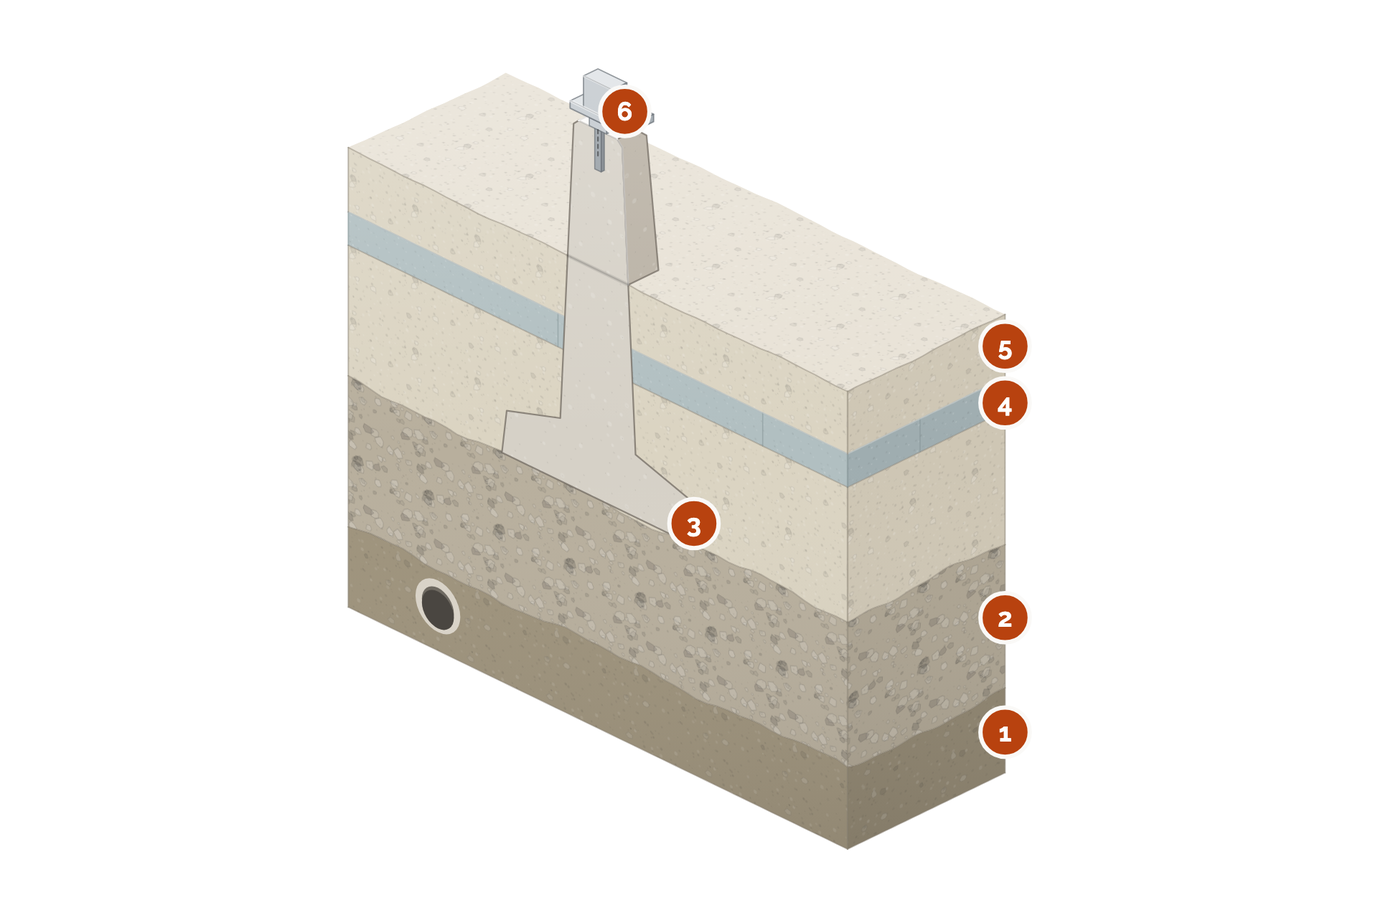
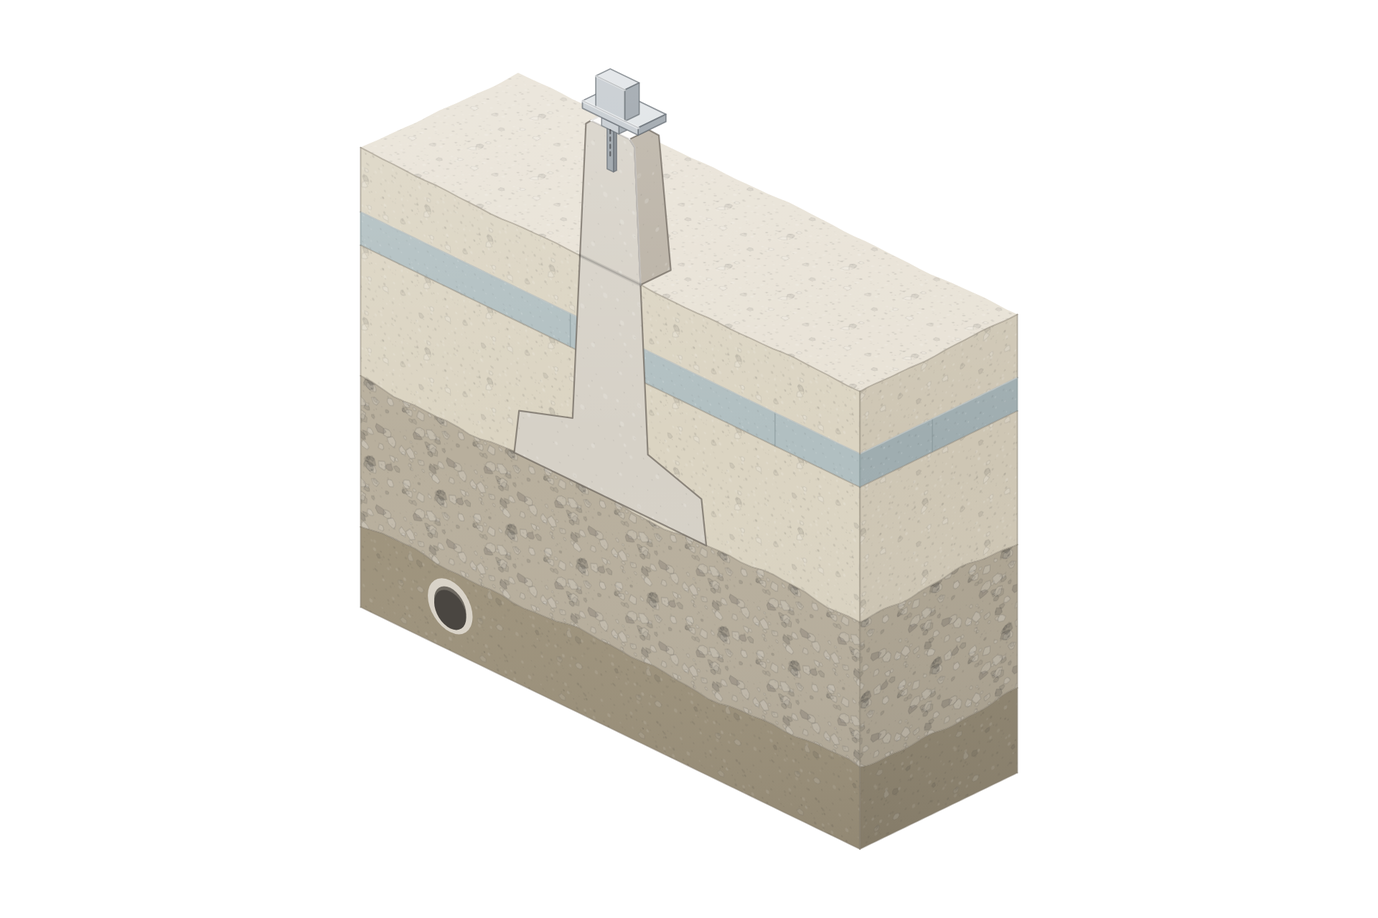
Proto päivitetty: cta-mitoita-perustus

diff --git a/haarat/cta-mitoita-perustus/wireframes/bce-v4.css b/haarat/cta-mitoita-perustus/wireframes/bce-v4.css
@@ -1808,31 +1808,63 @@ html.vienti .cfg{min-height:0;scroll-snap-align:none;view-timeline-name:none;
 html.vienti .cfg>*{position:static;min-height:0;display:block}
 html.vienti .cfg .shot{display:flex}
 
-/* Kuvan selite omana listana kuvan alla — käyttökohdesivun havainnekuva
-   (23.9.2026). Selite oli ennen kuvan sisällä omana palstanaan, ja se on mitattu
-   toimimattomaksi: kangas skaalautuu 390 px:n ruudulla 342 pikseliin, jolloin
-   15 px:n selite renderöityy 3,8 pikseliin. Mobiili on 80,9 % istunnoista, eli
-   selite oli neljä viidesosaa ajasta lukukelvoton. Isompi pistekoko kuvassa ei
-   ratkaise sitä: sama kangas on työpöydällä yli 800 px ja puhelimessa 342 px,
-   eikä yksi koko ole oikein molemmissa.
+/* Callout-selite piirroksen päällä — käyttökohdesivun havainnekuva (23.9.2026).
 
-   Nyt kuvassa on vain numeroitu merkki ja teksti on oikeaa HTML:ää: se ei
-   skaalaudu kuvan mukana, se on käännettävissä, se on ruudunlukijalla luettavissa
-   ja se tulee C-objektista kuten kaikki muukin näkyvä teksti. Numeron pohja on
-   --accent-dark eikä --accent, sama sävy kuin kuvan merkissä (valkoinen sen
-   päällä 5,5:1) — side kuvan ja listan välillä on väri ja numero, joten sen on
-   oltava sama molemmissa. */
-.kuvaselite{counter-reset:ks;list-style:none;margin:var(--s5) 0 0;padding:0;
-  display:grid;grid-template-columns:repeat(2,minmax(0,1fr));gap:var(--s4) var(--s7)}
-.kuvaselite li{counter-increment:ks;display:grid;
-  grid-template-columns:30px minmax(0,1fr);gap:4px 14px;align-items:start}
-.kuvaselite li::before{content:counter(ks);grid-row:span 2;
-  width:30px;height:30px;border-radius:50%;background:var(--accent-dark);color:#fff;
-  font-family:var(--ff-d);font-size:16px;font-weight:700;line-height:1;
+   Callout on merkki kuvassa, johtoviiva ja selite viivan päässä. Ainoa ero
+   tavalliseen on se, mistä merkki, viiva ja teksti tulevat: ne eivät ole
+   kuvassa vaan sen päällä. Syy on mitattu. Kangas skaalautuu 390 px:n ruudulla
+   342 pikseliin, joten kuvaan ladottu 15 px:n selite renderöityy 3,8 pikseliin —
+   ja mobiili on 80,9 % istunnoista. Työpöydälläkin se jää 12,9 pikseliin. Isompi
+   pistekoko kankaalla ei ratkaise sitä, koska sama kuva on työpöydällä yli
+   1 100 px ja puhelimessa 342 px eikä yksi pistekoko ole oikein molemmissa.
+   Päällä olevat callout-osat eivät skaalaudu kuvan mukana: teksti on 17 px joka
+   leveydellä, se on käännettävissä ja ruudunlukija lukee sen.
+
+   Paikat tulevat generaattorista (kuvat/asennus-callout.js, prosentteina
+   kuvasta), joten merkki ja selite eivät voi ajautua erilleen piirroksesta.
+   Merkin pohja on --accent-dark eikä --accent: valkoinen sen päällä on 5,5:1.
+
+   Alle 820 px callout purkautuu numeroiduksi listaksi kuvan alle. Merkit jäävät
+   kuvaan, mutta johtoviivat ja palsta katoavat: 342 pikselin levyisessä kuvassa
+   ei ole tilaa selitepalstalle, ja vaakavieritys on tällä sivulla kielletty. */
+.co-lava{display:grid;grid-template-columns:minmax(0,1.5fr) minmax(240px,1fr);
+  gap:var(--s6);align-items:stretch}
+.co-kuva{position:relative;align-self:start}
+.co-kuva img{display:block;width:100%;height:auto}
+/* Kaksi luokkaa, ei yksi: ylempänä on .figwide svg{height:auto} (0,1,1), joka
+   voittaa paljaan .co-viivat-säännön (0,1,0) ja antaa peitolle viewBoxin oman
+   1:1-kuvasuhteen — 672 px leveä kuva sai 672 px korkean peiton, jolloin
+   johtoviivat valuivat 224 px kuvan alapuolelle figcaptionin päälle. Sama ansa
+   kuin .pick-how span vs .ph aikoinaan: tarkista selektorin painoarvo ennen
+   kuin epäilet arvoa. */
+.co-kuva .co-viivat{position:absolute;inset:0;width:100%;height:100%;
+  overflow:visible;pointer-events:none}
+.co-viivat .alus{stroke:var(--paper);stroke-width:3.6}
+.co-viivat .veto{stroke:var(--ink-3);stroke-width:1.3;stroke-dasharray:6 4}
+.co-viivat path{fill:none;vector-effect:non-scaling-stroke;stroke-linecap:round}
+.co-nro{position:absolute;left:var(--x);top:var(--y);transform:translate(-50%,-50%);
+  width:clamp(24px,2.4vw,32px);height:clamp(24px,2.4vw,32px);border-radius:50%;
+  background:var(--accent-dark);color:#fff;border:2px solid var(--paper);
+  font-family:var(--ff-d);font-size:clamp(13px,1.2vw,17px);font-weight:700;line-height:1;
   display:flex;align-items:center;justify-content:center}
-.kuvaselite b{grid-column:2;font-size:17px}
-.kuvaselite span{grid-column:2;font-size:15px;color:var(--ink-2)}
-.figwide figcaption{margin-top:var(--s3);font-size:14px;color:var(--ink-3)}
-@media(max-width:700px){
-  .kuvaselite{grid-template-columns:1fr;gap:var(--s4)}
+.co-teksti{position:relative;list-style:none;margin:0;padding:0;min-height:100%}
+.co-teksti li{position:absolute;top:var(--y);transform:translateY(-50%);left:0;right:0}
+.co-teksti b{display:block;font-size:17px;line-height:1.3}
+.co-teksti span{display:block;font-size:15px;color:var(--ink-2);line-height:1.35}
+.figwide figcaption{margin-top:var(--s4);font-size:14px;color:var(--ink-3)}
+
+@media(max-width:820px){
+  .co-lava{grid-template-columns:1fr;gap:var(--s5)}
+  /* Sama painoarvo kuin perussäännöllä (0,2,0), muuten tämä häviää sille. */
+  .co-kuva .co-viivat{display:none}
+  /* Palsta puretaan listaksi: numero palaa tekstin eteen, koska ilman
+     johtoviivaa side kuvaan on pelkkä numero ja väri. */
+  .co-teksti{counter-reset:ks;min-height:0;display:grid;gap:var(--s4)}
+  .co-teksti li{position:static;transform:none;counter-increment:ks;
+    display:grid;grid-template-columns:30px minmax(0,1fr);gap:4px 14px;align-items:start}
+  .co-teksti li::before{content:counter(ks);grid-row:span 2;
+    width:30px;height:30px;border-radius:50%;background:var(--accent-dark);color:#fff;
+    font-family:var(--ff-d);font-size:16px;font-weight:700;line-height:1;
+    display:flex;align-items:center;justify-content:center}
+  .co-teksti b,.co-teksti span{grid-column:2}
 }

diff --git a/haarat/cta-mitoita-perustus/wireframes/bce_autokatos_spec.html b/haarat/cta-mitoita-perustus/wireframes/bce_autokatos_spec.html
@@ -10,6 +10,9 @@
 <link rel="stylesheet" href="https://fonts.googleapis.com/css2?family=Raleway:wght@400;500;600;700&family=Oswald:wght@500;600&display=swap">
 <link rel="stylesheet" href="bce-v4.css">
 <script src="bce-spec-shell.js"></script>
+<!-- Callout-merkkien paikat kuvassa. Koneen kirjoittama, lähde on sama
+     generaattori joka piirtää kuvan: docs/kuvat/asennus.py C <perhe>. -->
+<script src="asennus-callout.js"></script>
 <!-- Lohkon 5 tuotekuva: KP-pilari kolmiulotteisena. mittakaavio.js on ensin,
      koska tuotekuva.js lukee mitat sen PERHEET-taulukosta. -->
 <script src="mittakaavio.js"></script>
@@ -187,6 +190,7 @@ const C={
     routa:"Routa nostaa ja laskee maata vuodenaikojen mukaan. Siksi pilarin jalusta lasketaan niin syvälle, ettei routa yllä siihen. Kuinka syvälle, riippuu paikkakunnasta.",
     kohde:"Autokatoksen perustus jää näkyviin. Katoksen alla ei ole sokkelia eikä maanvaraista lattiaa, joten pilarit näkyvät pihaan sellaisina kuin ne asennetaan. Tehdasvalmisteisen pilarin pinta on sama joka kappaleessa, ja korkeus säädetään tarvikkeiden säätövaralla niin että rivi on suora.",
     talvi:"Talvella maa on roudassa ja kaivuu vie enemmän aikaa, mutta perustus itsessään valmistuu samalla tavalla kuin kesällä.",
+    perhe:"KP",                    /* kumman perheen callout-koordinaatit luetaan */
     img:"kuvat/asennus-kp-c.png",   /* kuvat/ on symlink ../kuvat -hakemistoon */
     alt:"Havainnekuva pilarin asennuksesta maan sisällä: kaivettu kuoppa, tiivistetty sorapatja, pilari jalustansa varassa soran päällä, routaeriste, täyttömaa ja maan pinnalle jäävä pilarin pää tarvikkeineen. Kuuden kerroksen numerot selitetään kuvan alla olevassa listassa.",
     /* Numerot vastaavat kuvan merkkejä 1–6 alhaalta ylös. Järjestys on KP:n ja
@@ -288,6 +292,49 @@ const C={
     (sij?' data-sijainti="'+E(sij)+'"':"")+">"+arrow(l[0])+"</a>";
   const erotin='<span aria-hidden="true"> · </span>';
 
+  /* Callout-kuva: merkki, johtoviiva ja selite piirroksen päällä.
+     Paikat tulevat generaattorilta (window.asennusCallout), teksti C:stä. Ne
+     liittyvät toisiinsa järjestyksellä: pisteen nro on selitteen indeksi + 1,
+     ja jos ne eivät täsmää, kuva ja teksti puhuisivat eri kohdista. Siksi
+     määrä tarkistetaan ja ristiriita näkyy sivulla eikä hiljene konsoliin.
+     Viiva on kaksi vetoa: paperinvärinen aluslevy ja tumma katkoviiva sen
+     päällä — yksi sävy katoaa joko hiekkaan tai paperiin. */
+  const callout=m=>{
+    const d=(window.asennusCallout||{})[m.perhe];
+    if(!d) return '<figure class="figwide"><p class="tbd">[Callout-koordinaatteja ei '+
+      "löytynyt perheelle "+E(m.perhe)+" — aja python3 docs/kuvat/asennus.py C "+
+      E(m.perhe)+"]</p></figure>";
+    const pist=[...d.pisteet].sort((a,b)=>a.nro-b.nro);
+    if(pist.length!==m.vaiheet.length) return '<figure class="figwide"><p class="tbd">'+
+      "[Callout: kuvassa "+pist.length+" merkkiä mutta selitteitä "+m.vaiheet.length+"]</p></figure>";
+    /* Selitteet tasavälein kuvan korkeudelle, ylimpänä se jonka merkki on
+       ylimpänä. Tasaväli eikä merkin oma korkeus: selite on 42 px korkea eikä
+       skaalaudu kuvan mukana, joten merkin kohdalle asemoituna neljäs ja viides
+       menevät päällekkäin heti kun kuva on alle noin 500 px korkea (mitattu
+       1 280 px:n ruudulla: viisi pikseliä päällekkäin). Tasaväli on sama luku
+       joka leveydellä, eikä se tarvitse mittausta tai resize-kuuntelijaa.
+       Järjestys kuvassa on alhaalta ylös, joten ylin selite on suurin numero;
+       DOM-järjestys on silti 1…6, koska ruudunlukija ja kapea ruutu lukevat
+       listan järjestyksessä. */
+    const PAD=7, n=pist.length;
+    const ly={};
+    [...pist].sort((a,b)=>a.y-b.y).forEach((p,i)=>
+      ly[p.nro]=+(PAD+i*(100-2*PAD)/(n-1)).toFixed(3));
+    const viiva=p=>{const d2="M"+p.x+","+p.y+" L96,"+ly[p.nro]+" L100,"+ly[p.nro];
+      return '<path class="alus" d="'+d2+'"/><path class="veto" d="'+d2+'"/>';};
+    return '<figure class="figwide"><div class="co-lava"><div class="co-kuva">'+
+      '<img src="'+E(m.img)+'" alt="'+E(m.alt)+'" width="'+d.w*2+'" height="'+d.h*2+
+        '" loading="lazy" decoding="async">'+
+      '<svg class="co-viivat" viewBox="0 0 100 100" preserveAspectRatio="none" aria-hidden="true">'+
+        pist.map(viiva).join("")+"</svg>"+
+      pist.map(p=>'<b class="co-nro" aria-hidden="true" style="--x:'+p.x+'%;--y:'+p.y+'%">'+
+        p.nro+"</b>").join("")+
+      '</div><ol class="co-teksti">'+pist.map((p,i)=>
+        '<li style="--y:'+ly[p.nro]+'%"><b>'+E(m.vaiheet[i][0])+"</b><span>"+
+        E(m.vaiheet[i][1])+"</span></li>").join("")+"</ol></div>"+
+      "<figcaption>"+E(m.varauma)+"</figcaption></figure>";
+  };
+
   document.getElementById("main").innerHTML=
 
   /* 1 · Hero */
@@ -332,11 +379,7 @@ const C={
         sinne, missä sen lukija on. */
   sect(head(C.maapohja.h2,C.maapohja.nodig)+
     "<p>"+E(C.maapohja.routa)+"</p><p>"+E(C.maapohja.kohde)+"</p><p>"+E(C.maapohja.talvi)+"</p>"+
-    '<figure class="figwide"><img src="'+E(C.maapohja.img)+'" alt="'+E(C.maapohja.alt)+
-      '" width="1920" height="1280" loading="lazy" decoding="async">'+
-      '<ol class="kuvaselite">'+C.maapohja.vaiheet.map(v=>
-        "<li><b>"+E(v[0])+"</b><span>"+E(v[1])+"</span></li>").join("")+"</ol>"+
-      "<figcaption>"+E(C.maapohja.varauma)+"</figcaption></figure>"+
+    callout(C.maapohja)+
     '<p class="next">'+more(C.maapohja.tekninen,"maapohja")+"</p>","maapohja")+
 
   /* 7 · Tarvikkeet */

diff --git a/haarat/cta-mitoita-perustus/wireframes/bce_design_system.html b/haarat/cta-mitoita-perustus/wireframes/bce_design_system.html
@@ -364,9 +364,9 @@ sect("kortit","Kortit ja ruudukot","Kortti on oikea väline kun kohteet ovat rin
    rule:"Kuvapaikka on .ph; tämä on sille kuvalle joka on jo olemassa. Leveä piirros ei mahdu mediaparin palstaan: 552 px:n palstassa selitteet renderöityivät 5 px:n kokoisina.",
    merge:"Päätös 23.9.: kuvaan ei ladota selitetekstiä. Mitattu käyttökohdesivulta: kangas skaalautuu 390 px:n ruudulla 342 pikseliin, jolloin 15 px:n selite on 3,8 px — ja mobiili on 80,9 % istunnoista. Työpöydälläkin se on 12,9 px. Isompi pistekoko ei ratkaise sitä, koska sama kangas on työpöydällä 1 152 px ja puhelimessa 342 px. Kuvaan jää numeroitu merkki, teksti tulee .kuvaselite-listana kuvan alle.",
    demo:'<figure class="figwide" style="margin:0"><img src="kuvat/asennus-kp-c.png" alt="Havainnekuva pilarin asennuksesta maan sisällä" width="1920" height="1280" loading="lazy"><ol class="kuvaselite"><li><b>Kaivetaan kuoppa</b><span>roudattomaan syvyyteen</span></li><li><b>Sorapatja pohjalle</b><span>tiivistetään koneella</span></li><li><b>Pilari lasketaan soran päälle</b><span>leveä jalusta kantaa, ei valua</span></li><li><b>Routaeriste, jos tontti vaatii</b><span>ratkaistaan tonttikohtaisesti</span></li><li><b>Maat takaisin päälle</b><span>pilarin pää jää näkyviin</span></li><li><b>Runko kiinni pilarin päähän</b><span>valmiiseen kierteeseen, ei poraamista</span></li></ol><figcaption>Periaatekuva, ei asennusohje. Kaivuusyvyys ja routasuojaus katsotaan tontin mukaan.</figcaption></figure>'},
-  {id:"kuvaselite",wp:wp("core","<code>core/image</code> + <code>core/list</code> samassa <code>core/group</code>:ssa, lohkotyyli <em>kuvaselite</em>. Numero tulee tyylistä eikä sisällöstä."),n:"Kuvan selite listana",c:"ol.kuvaselite (li > b + span)",on:on("ak"),status:["ok","uusi 23.9."],
-   rule:"Kuvan numeroitujen merkkien selitteet oikeana tekstinä kuvan alla, kaksi saraketta ja alle 700 px yksi. Numero on täytetty --accent-dark-ympyrä, sama sävy ja sama numero kuin kuvan merkissä — side kuvan ja listan välillä on väri ja numero, joten kumpaakaan ei muuteta yksin. Käytä aina kun piirroksessa on selitettäviä kohtia: kuvaan ladottu teksti skaalautuu kankaan mukana, tämä ei.",
-   demo:'<ol class="kuvaselite" style="margin:0"><li><b>Kaivetaan kuoppa</b><span>roudattomaan syvyyteen</span></li><li><b>Sorapatja pohjalle</b><span>tiivistetään koneella</span></li><li><b>Pilari lasketaan soran päälle</b><span>leveä jalusta kantaa, ei valua</span></li><li><b>Runko kiinni pilarin päähän</b><span>valmiiseen kierteeseen, ei poraamista</span></li></ol>'},
+  {id:"kuvaselite",wp:wp("core","<code>core/image</code> + <code>core/list</code> samassa <code>core/group</code>:ssa, lohkotyyli <em>callout</em>. Merkkien paikat ACF-kenttinä; numero ja ympyrä tulevat tyylistä eivätkä sisällöstä."),n:"Callout-selite piirroksen päällä",c:".co-lava (.co-kuva: img + svg.co-viivat + b.co-nro · ol.co-teksti)",on:on("ak"),status:["ok","uusi 23.9."],
+   rule:"Merkki kuvassa, johtoviiva ja selite viivan päässä — kaikki kolme kuvan päällä eivätkä kuvassa, jolloin ne eivät skaalaudu kankaan mukana. Käytä aina kun piirroksessa on selitettäviä kohtia. Merkkien paikat tulevat generaattorilta prosentteina kuvasta, selitteet jaetaan tasavälein. Alle 820 px purkautuu numeroiduksi listaksi: merkit jäävät kuvaan, viivat ja palsta katoavat. Ansa: .figwide svg{height:auto} voittaa paljaan .co-viivat-säännön, joten peitto tarvitsee kaksi luokkaa.",
+   demo:'<div class="co-lava"><div class="co-kuva"><img src="kuvat/asennus-kp-c.png" alt="Havainnekuva pilarin asennuksesta maan sisällä" width="1920" height="1280" loading="lazy"><svg class="co-viivat" viewBox="0 0 100 100" preserveAspectRatio="none" aria-hidden="true"><path class="alus" d="M73.8,79.8 L96,93 L100,93"/><path class="veto" d="M73.8,79.8 L96,93 L100,93"/><path class="alus" d="M51.3,57 L96,58.6 L100,58.6"/><path class="veto" d="M51.3,57 L96,58.6 L100,58.6"/><path class="alus" d="M46.2,12.1 L96,7 L100,7"/><path class="veto" d="M46.2,12.1 L96,7 L100,7"/></svg><b class="co-nro" aria-hidden="true" style="--x:73.8%;--y:79.8%">1</b><b class="co-nro" aria-hidden="true" style="--x:51.3%;--y:57%">3</b><b class="co-nro" aria-hidden="true" style="--x:46.2%;--y:12.1%">6</b></div><ol class="co-teksti"><li style="--y:93%"><b>Kaivetaan kuoppa</b><span>roudattomaan syvyyteen</span></li><li style="--y:58.6%"><b>Pilari lasketaan soran päälle</b><span>leveä jalusta kantaa, ei valua</span></li><li style="--y:7%"><b>Runko kiinni pilarin päähän</b><span>valmiiseen kierteeseen, ei poraamista</span></li></ol></div>'},
   {id:"dl",wp:wp("acf","<code>bce/lataus</code>. Jokainen PDF saa laskeutumissivun ja mitatun tapahtuman, joten paljas linkki ei kelpaa. <code>ohje</code>-sivupohjassa sama renderöityy <code>lataukset</code>-repeaterista."),n:"Latauskortti",c:".dl a (.ty .ic b .st)",on:on("tp","b"),
    rule:"Tiedostotyyppi latausikonilla selitteenä, nimi lihavoituna, tila pienenä. Neljä rinnakkain, kaksi 900 px:n alla.",
    demo:'<div class="dl" style="grid-template-columns:repeat(2,minmax(0,1fr))"><a href="#"><span class="ty"><svg class="ic" viewBox="0 0 24 24" aria-hidden="true"><path d="M12 3v12"/><path d="M7 11l5 5 5-5"/><path d="M4 20h16"/></svg>DWG</span><b>Mittapiirustukset</b><span class="st">'+T("[TÄYTETTÄVÄ]")+'</span></a><a href="#"><span class="ty"><svg class="ic" viewBox="0 0 24 24" aria-hidden="true"><path d="M12 3v12"/><path d="M7 11l5 5 5-5"/><path d="M4 20h16"/></svg>PDF · FI, SV, EN</span><b>Asennusperiaate A-601</b></a></div>'},

diff --git a/haarat/cta-mitoita-perustus/wireframes/asennus-callout.js b/haarat/cta-mitoita-perustus/wireframes/asennus-callout.js
@@ -1,0 +1,118 @@
+/* Konelukuinen. Kirjoittaa docs/kuvat/asennus.py C <perhe>. Ala muokkaa kasin.
+   Callout-merkkien paikat prosentteina asennus-<perhe>-c.png:sta. Sivu asemoi
+   merkit naista, joten ne eivat voi ajautua erilleen piirroksesta.
+   Selitteen pystypaikkaa ei ole taalla: sivu jakaa selitteet tasavalein,
+   koska selitteen korkeus on pikseleita eika skaalaudu kuvan mukana. */
+window.asennusCallout = {
+ "KP": {
+  "perhe": "KP",
+  "w": 960,
+  "h": 640,
+  "pisteet": [
+   {
+    "nro": 6,
+    "x": 46.237,
+    "y": 12.138
+   },
+   {
+    "nro": 5,
+    "x": 73.832,
+    "y": 37.715
+   },
+   {
+    "nro": 4,
+    "x": 73.832,
+    "y": 42.945
+   },
+   {
+    "nro": 3,
+    "x": 51.254,
+    "y": 57.029
+   },
+   {
+    "nro": 2,
+    "x": 73.832,
+    "y": 67.287
+   },
+   {
+    "nro": 1,
+    "x": 73.832,
+    "y": 79.76
+   }
+  ]
+ },
+ "TP": {
+  "perhe": "TP",
+  "w": 960,
+  "h": 640,
+  "pisteet": [
+   {
+    "nro": 6,
+    "x": 46.746,
+    "y": 21.806
+   },
+   {
+    "nro": 5,
+    "x": 70.604,
+    "y": 34.294
+   },
+   {
+    "nro": 4,
+    "x": 70.604,
+    "y": 40.324
+   },
+   {
+    "nro": 3,
+    "x": 51.084,
+    "y": 55.225
+   },
+   {
+    "nro": 2,
+    "x": 70.604,
+    "y": 65.833
+   },
+   {
+    "nro": 1,
+    "x": 70.604,
+    "y": 80.21
+   }
+  ]
+ },
+ "AP": {
+  "perhe": "AP",
+  "w": 960,
+  "h": 640,
+  "pisteet": [
+   {
+    "nro": 6,
+    "x": 47.141,
+    "y": 17.168
+   },
+   {
+    "nro": 5,
+    "x": 68.102,
+    "y": 37.067
+   },
+   {
+    "nro": 4,
+    "x": 50.952,
+    "y": 45.556
+   },
+   {
+    "nro": 3,
+    "x": 68.102,
+    "y": 49.236
+   },
+   {
+    "nro": 2,
+    "x": 68.102,
+    "y": 62.849
+   },
+   {
+    "nro": 1,
+    "x": 68.102,
+    "y": 80.074
+   }
+  ]
+ }
+};

diff --git a/haarat/cta-mitoita-perustus/wireframes/bce_paatospuu.html b/haarat/cta-mitoita-perustus/wireframes/bce_paatospuu.html
@@ -34,6 +34,25 @@
 
 .pp-kaavio{overflow-x:auto;margin:var(--s5) 0 0}
 .pp-kaavio svg{display:block;max-width:100%;height:auto}
+/* Lattia kaavion leveydelle (23.9.2026). Kehyksessä oli overflow-x:auto jo
+   ennestään, mutta max-width:100% kutisti SVG:n aina mahtumaan, joten se ei
+   vierittynyt koskaan — se vain pieneni. Mitattu 390 px:n ruudulla: kaavio
+   342 px, kerroin 0,30 ja selitteet 3,4–3,9 px. Sama vika kuin
+   käyttökohdesivun leikkauskuvassa, ja sama syy: SVG:n teksti skaalautuu
+   kankaan mukana.
+
+   Ratkaisu on sama kuin mittakaaviolla (bce-v4.css, .mitoitus .mk svg): kaavio
+   ei kutistu alle luettavan koon vaan kehys vierittyy vaakaan. max-width:none
+   palauttaa SVG:n omaan 1 140 pikseliin, eli kaavio renderöityy kapealla
+   ruudulla pikselilleen samoin kuin työpöydällä — selitteet 11,5–13 px.
+   min-width on lattia sen varalta että jokin kaavio on kapeampi kuin
+   tuhat pikseliä. Sivu itse ei vierity: vieritys on kehyksen sisällä
+   (mitattu 390 px, document.scrollWidth 390). Tämä on analyysidokumentti eikä
+   kuluttajasivu — vaakavieritys on täällä sallittu, kuten TP-sivun
+   mittataulukossa, mutta lukukelvoton teksti ei ole. */
+@media(max-width:1100px){
+  .pp-kaavio svg{max-width:none;min-width:1000px}
+}
 
 /* Avainluvut. Ei laatikoita, vain hiusviiva erottamassa — sivun lämmin pohja
    näkyy läpi, samoin kuin taulukoissa. */

diff --git a/haarat/cta-mitoita-perustus/wireframes/DESIGN-SYSTEM.md b/haarat/cta-mitoita-perustus/wireframes/DESIGN-SYSTEM.md
@@ -161,7 +161,7 @@ eikä viittä.
 | Kohteen lukurivi | `.hero.hero-ref > .herocol` (`.hero-img` + `.kohdefakta > h2.lbl + dl.spec2`) | referenssi | **teema** · `reference`-sivupohja ACF-kentistä (`kohde_label`, `paikkakunta`, `valmistumisvuosi`, `kohteen_koko`, `pilariperhe`, `pilarien_maara`) | Lisätty 18.9.2026. Kortti 10 pyytää kohteen *kuvina ja lukuina*, joten kuva ja arvoparit ovat samassa palstassa eivätkä omina lohkoinaan. `dl.spec2` on tarkoituksella yksipalstainen (päätös 16.9.), joten täysleveänä lohkona kuusi paria jättäisi oikean puolen tyhjäksi. `.hero-ref` on `align-items:start` ja kuva täyttää palstan leveyden, jolloin kuvan ja lukurivin reunat ovat samassa linjassa. Kuusi paria, ei kahdeksan: loput toistavat tarinan |
 | Tarinaosuus | `.tarina` (useita `p`-elementtejä) | referenssi | **core** · vapaa `post_content`. Rivin mitta teemasta | Lisätty 18.9.2026. Referenssin leipäteksti on asiakkaan omaa tekstiä eikä speksattua copya, joten kappaleita on 4–8 peräkkäin. Luokka on pelkkä kappaleväli (`--s4`); rivin mitta tulee oletuksesta (`p` 68ch). Ei uutta leiskaa |
 | Aito kuva omalla rivillään | `figure.figwide > img` (+ `figcaption`) | autokatos | **core** · `core/image`, tasaus wide tai full | Lisätty 17.9.2026. Leveä piirros ei mahdu mediaparin palstaan (552 px): selite renderöityi 5 px:n kokoisena. Kuvapaikka on yhä `.ph`; tämä on aidolle kuvalle |
-| Kuvan selite listana | `ol.kuvaselite > li > b + span` | autokatos | **core** · `core/image` + `core/list` samassa `core/group`:ssa, lohkotyyli *kuvaselite* | Uusi 23.9.2026. **Kuvaan ei ladota selitetekstiä.** Mitattu: kangas skaalautuu 390 px:n ruudulla 342 pikseliin, jolloin 15 px:n selite on 3,8 px — mobiili on 80,9 % istunnoista, ja työpöydälläkin selite jää 12,9 pikseliin. Isompi pistekoko ei ratkaise sitä, koska sama kangas on työpöydällä 1 152 px ja puhelimessa 342 px. Kuvaan jää numeroitu merkki, teksti tulee listana kuvan alle: se ei skaalaudu, se on käännettävissä ja ruudunlukija lukee sen. Numeron pohja on `--accent-dark`, sama sävy kuin kuvan merkissä — side on väri ja numero, joten kumpaakaan ei muuteta yksin |
+| Callout-selite piirroksen päällä | `.co-lava` > `.co-kuva` (`img` + `svg.co-viivat` + `b.co-nro`) + `ol.co-teksti` | autokatos | **core** · `core/image` + `core/list` samassa `core/group`:ssa, lohkotyyli *callout*; merkkien paikat ACF-kenttinä | Uusi 23.9.2026. Callout on merkki kuvassa, johtoviiva ja selite viivan päässä — ainoa ero tavalliseen on se, että merkki, viiva ja teksti ovat kuvan **päällä** eivätkä kuvassa. **Kuvaan ei ladota selitetekstiä.** Mitattu: kangas skaalautuu 390 px:n ruudulla 342 pikseliin, jolloin 15 px:n selite on 3,8 px — mobiili on 80,9 % istunnoista, ja työpöydälläkin selite jää 12,9 pikseliin. Isompi pistekoko ei ratkaise sitä, koska sama kangas on työpöydällä 1 152 px ja puhelimessa 342 px. Merkin, viivan ja tekstin koko on CSS:ssä eikä kankaalla, joten ne pysyvät samoina joka leveydellä: teksti on 17 px, se on käännettävissä ja ruudunlukija lukee sen. Merkkien paikat tulevat generaattorilta (`kuvat/asennus-callout.js`, prosentteina kuvasta), joten ne eivät voi ajautua erilleen piirroksesta; selitteet sivu jakaa tasavälein, koska selitteen korkeus on pikseleitä eikä skaalaudu. Numeron pohja on `--accent-dark`. Alle 820 px callout purkautuu numeroiduksi listaksi: merkit jäävät kuvaan, viivat ja palsta katoavat, koska 342 px:n kuvaan ei mahdu selitepalstaa. **Ansa:** `.figwide svg{height:auto}` (0,1,1) voittaa paljaan `.co-viivat`-säännön, joten peitto tarvitsee kaksi luokkaa |
 | Latauskortti | `.dl` | TP, B | **ACF** · `bce/lataus`. Laskeutumissivu ja mitattu tapahtuma, joten paljas linkki ei kelpaa | `.dl-1` (kuollut) |
 | Suodatinkortti | `.pick-how a (.ph-1610 .tx b .d)` + `.fstate .lnk` | Tarvikkeet | **ACF** · `bce/tarvikesuodatin`. Aito custom: korostaa, piilottaa, kuittaa ruudunlukijalle. JS-riippuvuus | **Piilottaa sopimattomat** (`.tcard[hidden]`, tyhjä ryhmä `.tgroup[hidden]`), **ei vieritä** — vaimennettu 400 px:n rivi on este, ei tieto. Kaavio kortissa kertoo liitostyypin; 16:10, koska 3:1 on liian matala oikealle kuvalle. Mobiilissa kortti kääntyy vaakaan (kuva 120 px vasemmalla), muuten viisi korttia veisi kaksi ruudullista. **Kuittausrivillä näkyy vain purkupainike ja vain kun valinta on päällä**; määrä jää `.sr[role=status]`-alueeseen ruudunlukijalle. `.fstate .msg`, `.fstate .more`, `.hitlbl`, `.hit` ja `.dim` kuolleet |
 | Vaiheet kuvalla | `.flow .st` | etusivu, käyttökohde | **ACF** · `bce/vaiheet`. Askeleet 2–4 Options-sivulta (`shared_steps_2_3_4`), eivät sivulta | |
